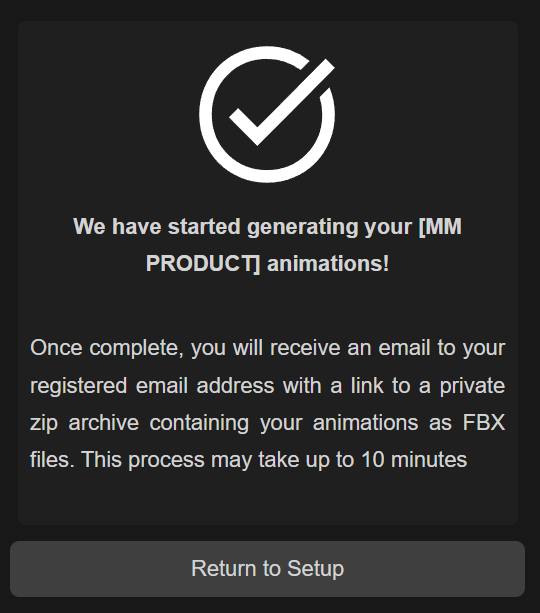
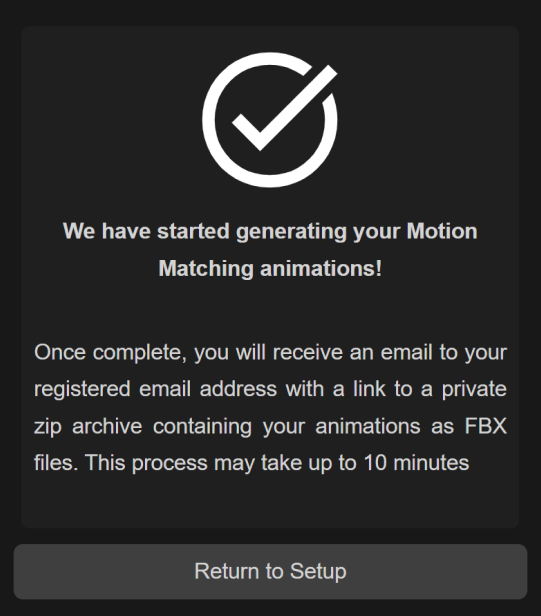
Created MM Beta branch (for temporary use with enterprise clients)

diff --git a/docs/ui.md b/docs/ui.md
@@ -5,29 +5,29 @@
 
 ## Overview
 
-The [MM-PRODUCT] user interface is located on the right side of the screen, once [MM-PRODUCT] has been selected via the top-right menu. It contains all the tools and controls needed to create your motion datasets:
+The user interface is located on the right side of the screen, once Motion Matching has been selected via the top-right menu. It contains all the tools and controls needed to create your motion datasets:
 <br>
 
 ![](../assets/images/mm-toolbox.png)
 
-The [MM PRODUCT] workflow is divided into three key phases:
+The Motion Matching workflow is divided into three key phases:
 
 1. [Configuration Setup](#configuration-setup)
     - Specify parameters based on your game's animation system to generate root motion **paths**. These paths will later be synthesized by our AI motion models to create your dataset.
 2. [Path Viewer](#path-viewer)
     - Review the generated paths and confirm they meet your requirements before proceeding.
 3. [Animation Generation](#animation-generation)
-    - Choose the style(s) and seed for the animation generation process.
+    - Choose the style(s), seed and options for the animation generation process.
 
-!!! tip
-    Check out our [Motion Matching Tutorial](../how-to-guides/mm-tutorial.md) for a guided walkthrough on using [MM-PRODUCT] for motion matching!
+<!-- !!! tip
+    Check out our [Motion Matching Tutorial](../how-to-guides/mm-tutorial.md) for a guided walkthrough on using [MM-PRODUCT] for motion matching! -->
 
 ## Configuration Setup
 
-There are two ways to create your motion dataset in [MM PRODUCT]:
+There are two ways to create your motion dataset:
 
-- [Simplified mode](#simplified-setup) <br>*The fastest way to create a dataset, adaptable for various animation systems.*
-- [Custom mode](#custom-setup) <br>*Provides more granular control for users who need finer adjustments.*
+- [Simplified mode](#simplified-setup) <br>*The fastest way to create a full dataset, adaptable for various animation systems.*
+- [Custom mode](#custom-setup) <br>*Provides more granular control for users who prefer a more modular method.*
 
 You can switch between the two modes using the **Select Mode** option:
 <br>
@@ -117,7 +117,22 @@ The available path sets are as follows:
 | Curves&nbsp;(Shallow) | The same as *Curves*, but with less sharp turns.                                                           |
 | Extras               | Additional paths for specific scenarios, such as stop-turns, pirouettes, and strafe turns.   |
 
-#TODO: Import Custom Path Sets
+Any imported path sets will also be visible in this list
+
+#### Import Custom Path Set
+
+![](../assets/images/mm-import-custom-set.png)
+
+This feature allows you to define your own path sets to use with the Motion Matching toolset. Once the **Import Custom Path Set** button is clicked, you will be greeted with the following menu:
+
+![](../assets/images/mm-import-custom-set-modal.png)
+
+1. **File Upload Button**
+<br> Allows you to select all the custom paths you would like to include in the custom path set. Only JSON file uploads are allowed
+
+2. **Path Set Name Input**
+<br> The name entered here will be the name associated with the imported path set. Entering the name of a set that has been already uploaded will **overwite** the existing set with the newly imported paths!
+
 
 #### Parameter Reference
 
@@ -125,15 +140,15 @@ The Custom Setup interface features a **Path Set** dropdown, along with adjustab
 
 ![](../assets/images/mm-custom-settings.png)
 
-When using the PDC tool, you have these controls available to you:
+You have these controls available to you:
 
 ##### Movement Settings
 | Parameter            | Description                                                           |
 |----------------------|-----------------------------------------------------------------------|
 | Max Speed            | The speed that the character will attempt to accelerate to when generating paths. If the **Acceleration** path set is chosen, then this will be one of the target speeds the character will accelerate between.           |
 | Min Speed            | When the **Acceleration** path set is chosen, this is one of two speeds that the character will accelerate between.                                                           |
-| Acceleration   | The acceleration the character will use when increasing their speed|
-| Deceleration   | The acceleration the character will use when decreasing their speed|
+| Acceleration   | The acceleration the character will use when **increasing** their speed|
+| Deceleration   | The acceleration the character will use when **decreasing** their speed|
 
 ##### Turn Behaviour
 | Parameter            | Description                                                           |

diff --git a/docs/custom_paths.md b/docs/custom_paths.md
@@ -1,6 +1,6 @@
 # Custom Paths
 
-TODO: Introduction/description
+The **Import Custom Path Set** feature allows you to define your own path sets for use in our Motion Matching workflow. Here you will find a fill reference on how to define these paths.
 
 !!! warning
     This is a **Beta feature**, so there may be some minor bugs & issues.
@@ -11,14 +11,14 @@ A **Path** is comprised of **Segments**.
 
 These segments are stitched together, and run through a simulation process to create a path.
 
-A path can be defined in a json object (read from a file) with two properties:
+A path is defined in a json object (read from a file) with two properties:
 - `info` - An object containing global information that is consistent throughout the entire path
 - `segments` - An **array** of objects, with each array element defining a segment
 
-The keys allowed in the `info` object are as follows:
-
 !!! info
     All angles are measured in degrees, **anticlockwise** from the forwards direction
+
+The keys allowed in the `info` object are as follows:
 
 | Property           | Description                                                           |
 |--------------------|-----------------------------------------------------------------------|
@@ -32,7 +32,7 @@ Segment objects can contain the following properties:
 |--------------------|-----------------------------------------------------------------------|
 | `duration`       | How long (in frames) this segments should last. This property is required. Note: the frame rate is currently locked at 30fps               |
 | `turn_angle`  Default: `0`       | The simulator will rotate the velocity of the previous segment by this amount. |
-| `speed_index` Default: `1`       | Specifies which speed (of the speeds array) that the segment will use. When using PDC, `0` is idle, `1` is Max Speed and `2` is Min Speed|
+| `speed_index` Default: `1`       | Specifies which speed (of the speeds array) that the segment will use. `0` is idle, `1` is Max Speed and `2` is Min Speed|
 | `facing_velocity` Default: `true`       | Dictates whether the character should face the direction they are moving. If set to `false`, they will face the `strafe_face_angle`|
 | `strafe_face_angle` Default: `0`       | Angle in **global** space that the character will face when `facing_velocity` is set to `false`|
 | `start_angspeed` Default: `0`       | The rotation rate (in degrees per second) that the segment will arc at. Higher values result in tighter arcs|
@@ -41,16 +41,12 @@ Segment objects can contain the following properties:
 | `decel_multiplier` Default: `1.0`       | Value that this segment will multiply the path builder's deceleration by|
 | `post_turn` Default: `0.5`       | Dictates when the character will start their turn for this segment. `0.5` means the turn will start immediately as the segment begins. `0.0` means the turn will **finish** as the segment begins (a 'pre-turn'). `1.0` means the turn will start with a delay after the segment begins (a 'post-turn')|
 
+!!! tip
+    To view examples of more complex paths, download our samples [here](https://drive.google.com/file/d/1Ds5ySjlvcYy-himAtRdaTHwys1MMq6rf/view?usp=sharing)!
+
 ## Creating Paths
 
-In the root folder of the Blender project, you will need to create a folder called `mo_paths`, if it does not already exist.
-
-Within this folder, any subfolders represent a Dance Card set. They can be selected via the dropdown as you usually would in the PDC menu. Currently, custom path definitions are only compatible with **Custom** mode, and have not yet been implemented into **Simplified** mode.
-
-Then, you may create a `.json` file in this subfolder to define a path for the set. The simplest path is defined as so (as seen in `mo_paths/simple_examples/straight.json`)
-
-!!! info
-    For a full reference of example paths, check the `mo_paths` folder for simple and complex examples!
+Each path is defined in an individual json file. The name of the path in the dance card set will be the name of the json file. The simplest path is defined as so:
 
 ```
 {
@@ -60,6 +56,6 @@ Then, you may create a `.json` file in this subfolder to define a path for the s
             "duration": 90
         }
     ]
-}
+}   
 ```
 As you can see, the only property that **must** be defined is `duration`. Each path must have **at least one** segment.

diff --git a/docs/index.md b/docs/index.md
@@ -1,45 +1,21 @@
-# Home
+# Motion Matching
 
-<!-- Announcement block
+!!! warning
+    This is a **Beta feature**, so there may be some minor bugs & issues.
 
-<div markdown>
-<hr style="border-width: 0.5em; border-color: #333333;">
-<span style="font-size: 2em;">🎉 <b><em>Motorica Studio for UE5.4 is now here!</em></b> 🎉</span>
+<!--## About-->
 
-- [What's new](./changelog.md)
-- [Download](./downloads.md)
-- [Install](./get-started/installing.md)
-- Join our [Discord](https://discord.com/invite/KWRqNzcjYA)
+The **Motion Matching** feature presents a toolset designed to create complete motion datasets in minutes, tailored for your game's specific requirements. It simplifies the animation generation process, allowing you to quickly transform your ideas into animation assets for your project. 
+<br>
 
-<hr style="border-width: 0.5em; border-color: #333333;">
-</div>
+![](../assets/images/mm-header.png)
 
--->
+## Get Started
+To access the Motion Matching tools, visit the [Web App](https://app.staging.motorica.ai/){:target="_blank"} and select the Motion Matching tab in the top right:
 
-Welcome to the Motorica's documentation!
+![](../assets/images/mm-switch-tab.png){width="500"}
 
- [:material-monitor-shimmer: Motorica Web App](https://mogen.motorica.ai/){ .md-button .md-button--primary } [:simple-unrealengine: Download UE Plugin](downloads.md#motorica-studio-ue-plugin){ .md-button }
+## Next steps
 
-[Click here](get-started/index.md) to get started with Motorica Studio for Unreal Engine 5.
-
-### Other Software Guides
-
-For other software we recommend using the web based [Style Viewer :material-monitor-shimmer:](https://app.motorica.ai/)
-
-<div class="grid cards" markdown>
-
-- :simple-autodeskmaya: [Maya quickstart guide](https://static1.squarespace.com/static/63650e2ece9c2f59c302558c/t/66c39d5d1e3b897568917b78/1724095841870/Quickstart_guide_maya.pdf)
-- :simple-blender: [Blender quickstart guide](https://static1.squarespace.com/static/63650e2ece9c2f59c302558c/t/66c39ced2c322e0d351c79aa/1724095727802/Quickstart_guide_blender.pdf)
-- :simple-houdini: [Houdini tutorial](https://youtu.be/m5ZcMsATAfg)
-- :simple-autodeskmaya: [Maya tutorial](https://vimeo.com/831841460)
-
-</div>
-
-### Discord
-
-Visit [Motorica.ai](https://www.motorica.ai/) to learn more and join our [Discord](https://discord.com/invite/KWRqNzcjYA) community to ask questions and share feedback!
-
-### Legal
-
-- [Privacy Policy](legal/privacy-policy.md)
-- [Terms of Service](legal/tos.md)
+<!-- - Follow our step-by-step [Motion Matching Tutorial](../how-to-guides/mm-tutorial.md) for a comprehensive guide on creating a playable character in Unreal Engine! -->
+- See the [User Interface Reference](ui.md) for a complete overview of the toolset.
